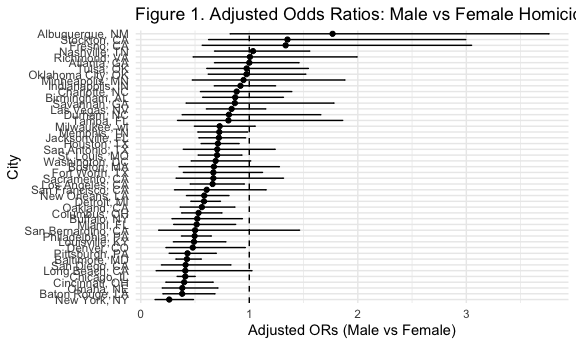
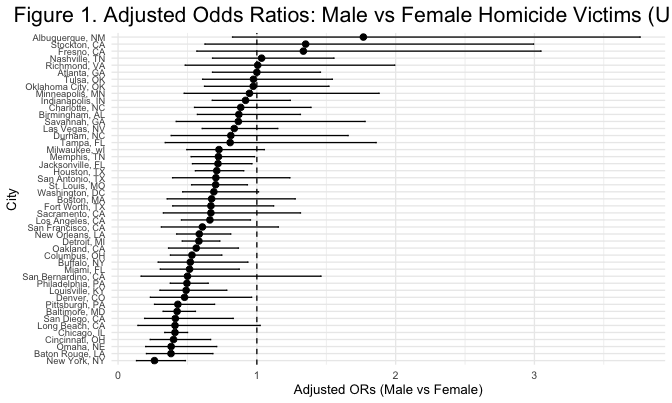
fixing height of plot 1 in problem 1

diff --git a/p8105_hw6_smo2147.md b/p8105_hw6_smo2147.md
@@ -230,17 +230,23 @@ knitr::kable(all_cities_plot)
 | Albuquerque, NM    | 1.7674995 | 0.8247081 | 3.7618600 | 0.1392989 |
 
 ``` r
-ggplot(all_cities_plot, 
+ggplot(all_cities_plot,
        aes(
-         x = estimate, 
-         y = fct_reorder(city_state, estimate))) +
-  geom_point() +
+         x = estimate,
+         y = fct_reorder(city_state, estimate)
+       )) +
+  geom_point(size = 2) +
   geom_errorbarh(aes(xmin = conf.low, xmax = conf.high), height = 0.2) +
   geom_vline(xintercept = 1, linetype = "dashed") +
   labs(
     title = "Figure 1. Adjusted Odds Ratios: Male vs Female Homicide Victims (U.S. Cities)",
     x = "Adjusted ORs (Male vs Female)",
     y = "City"
+  ) +
+  theme_minimal(base_size = 10) +
+  theme(
+    axis.text.y = element_text(size = 7),
+    plot.title = element_text(size = 16, hjust = 0.5)
   )
 ```
 
